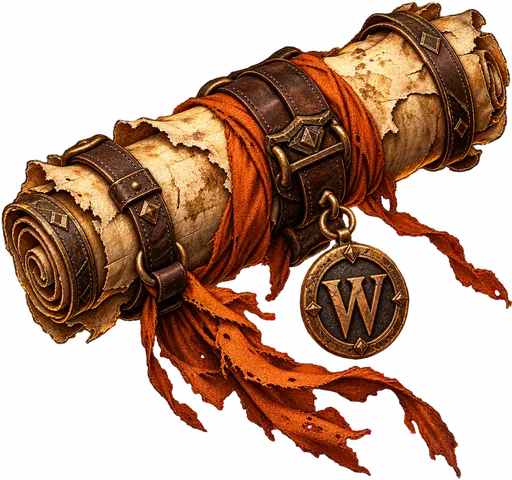
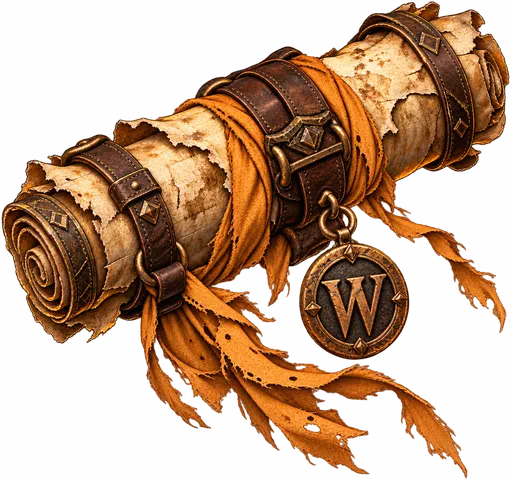
Refresh the scroll drawing and let it stand on the alchemy page.
The new parchment replaces the old one under all six scroll ids, the
recipe list wears the scroll instead of the potion it brews, and both
requirement rows of the cauldron carry their own art, the scroll and
the flask, at chrome size.

Claude-Session: https://claude.ai/code/session_01JqsJPUg91SJ2mpF1rwQ4XC

diff --git a/src/views/screens/alchemy.screen.tsx b/src/views/screens/alchemy.screen.tsx
@@ -22,7 +22,8 @@ import { formatNumber } from "@/shared/utils/format";
 import { Bar } from "../components/bar";
 import { Button } from "../components/button";
 import { Card } from "../components/card";
-import { ItemArtFill } from "../components/item-icon";
+import { ItemArtFill, ItemIcon } from "../components/item-icon";
+import { EMPTY_FLASK } from "@/models/data/consumables";
 import { ArtRowButton, List, RowText } from "../components/list";
 import { summarizeEffect } from "../presenters/item.presenter";
 import { Select } from "../components/select";
@@ -193,8 +194,9 @@ export function AlchemyScreen() {
                   </div>
                 </div>
 
-                <div className="flex items-center justify-between gap-3 px-4 py-3">
-                  <span className="min-w-0 truncate text-[10px] uppercase tracking-[0.16em] text-ink-faint">
+                <div className="flex items-center gap-3 px-4 py-3">
+                  {chosenRow.scroll ? <ItemIcon item={chosenRow.scroll} size="mini" /> : null}
+                  <span className="min-w-0 flex-1 truncate text-[10px] uppercase tracking-[0.16em] text-ink-faint">
                     {t(chosenRow.scroll?.name ?? "Scroll")}
                   </span>
                   <span className="shrink-0 font-mono text-[11px] text-ink-soft">
@@ -202,8 +204,9 @@ export function AlchemyScreen() {
                   </span>
                 </div>
 
-                <div className="flex items-center justify-between gap-3 px-4 py-3">
-                  <span className="text-[10px] uppercase tracking-[0.16em] text-ink-faint">
+                <div className="flex items-center gap-3 px-4 py-3">
+                  <ItemIcon item={EMPTY_FLASK} size="mini" />
+                  <span className="min-w-0 flex-1 truncate text-[10px] uppercase tracking-[0.16em] text-ink-faint">
                     {t("Empty Flask")}
                   </span>
                   <span className="shrink-0 font-mono text-[11px] text-ink-soft">
@@ -302,7 +305,7 @@ export function AlchemyScreen() {
                       key={row.recipe.potionId}
                       divided
                       artSize="compact"
-                      art={<ItemArtFill item={row.potion} />}
+                      art={<ItemArtFill item={row.scroll ?? row.potion} />}
                       title={
                         <span className={cn(isSelected ? "text-ember" : undefined)}>
                           {t(row.scroll?.name ?? row.potion.name)}
